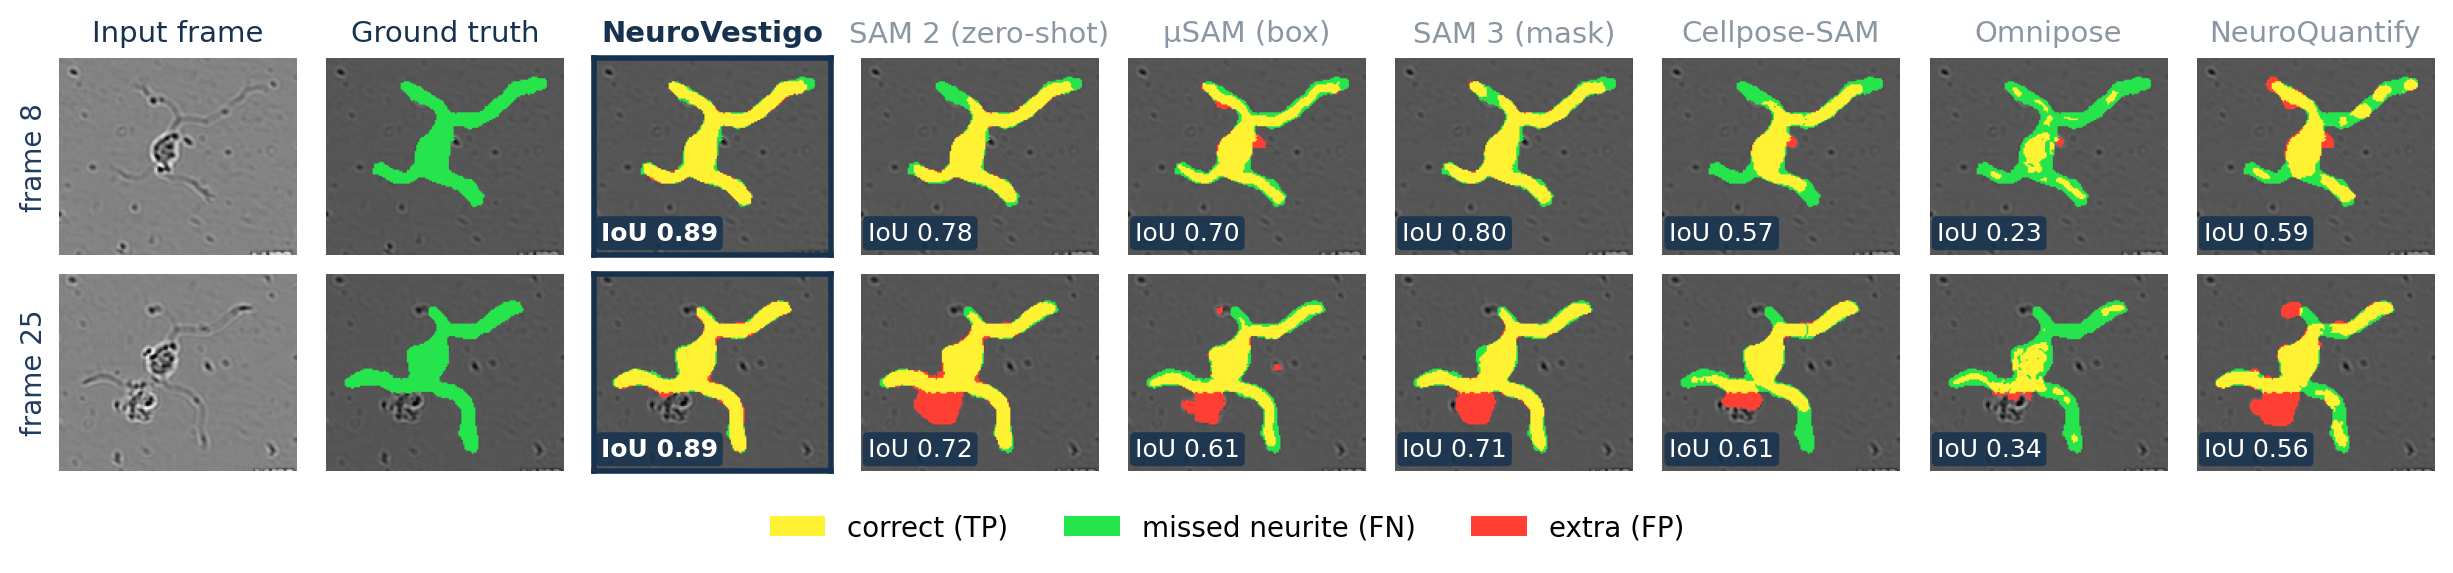
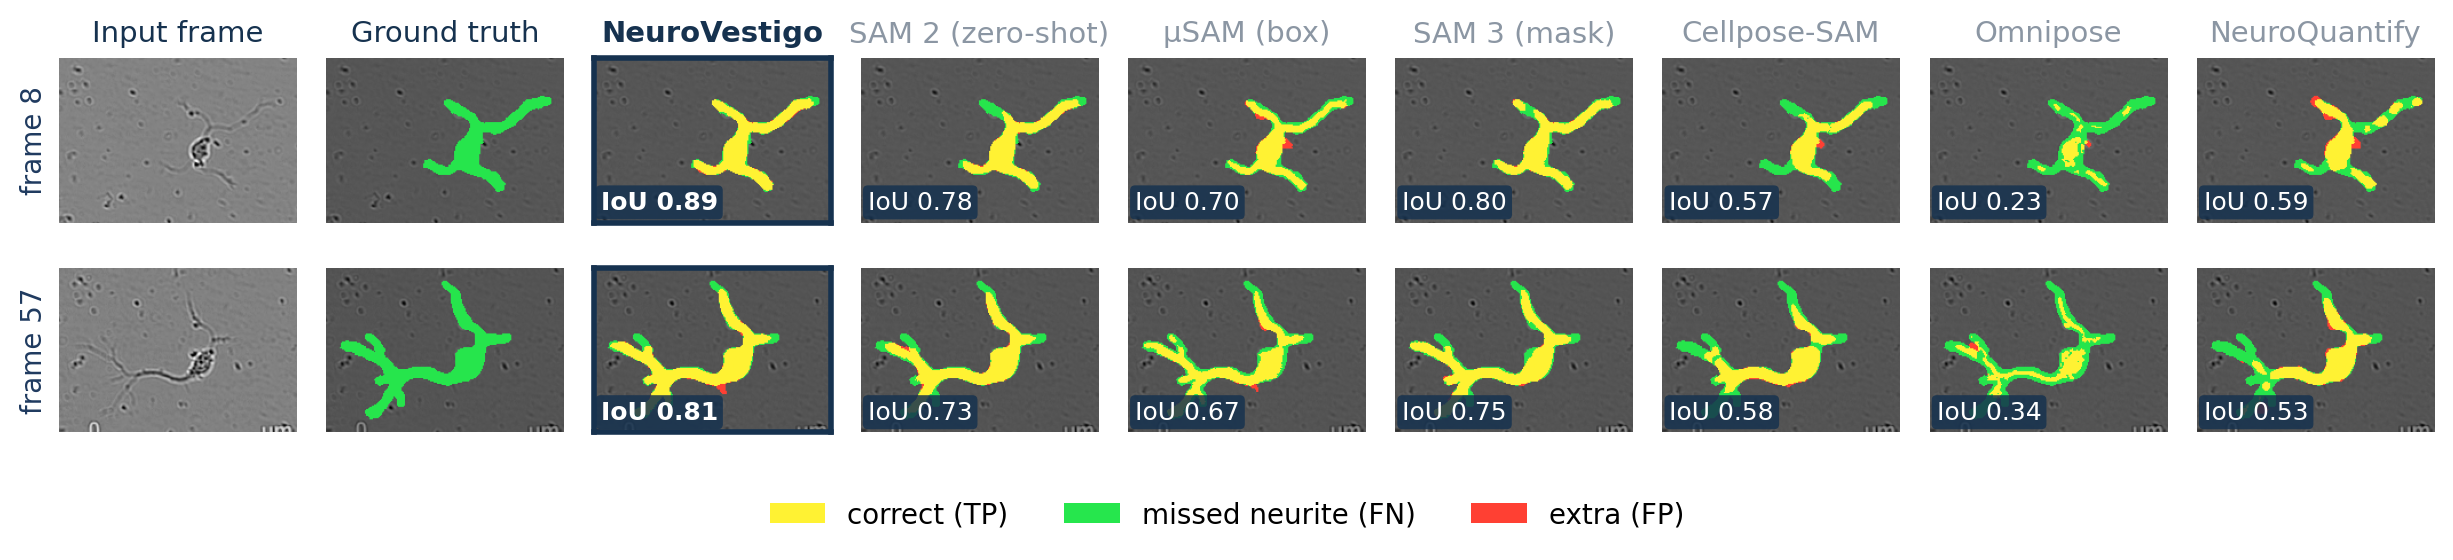
ISBI Fig. 2: frame 57, the late frame that keeps the growth in view

diff --git a/paper_assets/isbi2027/make_fig_qual.py b/paper_assets/isbi2027/make_fig_qual.py
@@ -29,11 +29,12 @@ import make_proof_panel as mpp  # noqa: E402
 
 PRESETS = {
     # The paper's Fig. 2: run 1's test recording, drawn with run 1's model (the
-    # released one). Frame 8 as in the draft; frame 25 replaced 62 (2026-11-02),
+    # released one). Frame 8 as in the draft; frame 57 replaced 62 (2026-11-02),
     # where uSAM's box-filling failure (IoU 0.34) misrepresented its 0.62 mean.
-    # Of the frames with uSAM above 0.60, SAM 2 and SAM 3 second and third and
-    # NeuroVestigo first, 25 has the largest lead (0.89 vs 0.72 IoU).
-    "A71_C1": dict(frames=["8", "25"], ours="ours_23rec_topo", scale=0.55,
+    # Frames with uSAM above 0.60, NeuroVestigo first and SAM 2 and SAM 3 second
+    # and third: 57 has the largest lead among the late frames where the arbor
+    # has grown (0.81 vs 0.75 IoU); no frame after 62 qualifies (uSAM <= 0.54).
+    "A71_C1": dict(frames=["8", "57"], ours="ours_23rec_topo", scale=0.55,
                    min_aspect=0.0, sam2="SAM 2 (zero-shot)"),
     # Run 2's test recording whose NeuroVestigo IoU is closest to that fold's
     # mean (0.711 against 0.724), so the figure shows typical rather than

diff --git a/paper_assets/isbi2027/main.tex b/paper_assets/isbi2027/main.tex
@@ -216,7 +216,7 @@ We optimize using AdamW \cite{loshchilov2019adamw} (weight decay $0.05$) for 110
 % two-column page); predictions from benchmark/predictions/ours_23rec_topo.
 \includegraphics[width=\textwidth]{proof_A71_C1_isbi}
 \caption{\textbf{Qualitative comparison} on held-out recording
-\texttt{A71\_C1} at frames 8 and 25; per-panel IoU inset.}
+\texttt{A71\_C1} at frames 8 and 57; per-panel IoU inset.}
 \label{fig:qual}
 \end{figure*}
 
